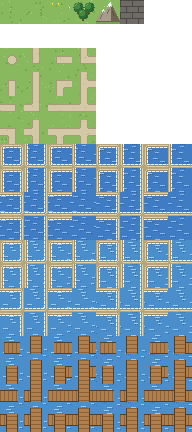
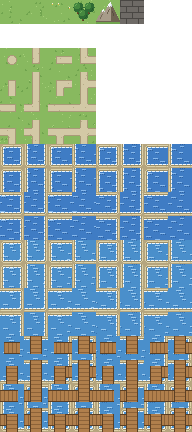
content: bridge keeps a bank on land-facing sides so the shoreline stays unbroken

diff --git a/tools/art/art_tiles.py b/tools/art/art_tiles.py
@@ -289,9 +289,10 @@ def water_piece(mask, frame, pal):
 
 
 def bridge_piece(arms, frame=0):
-    # Open water under the deck, no banks: a side with an arm may face land or the next bridge square
-    # (the piece cannot tell which), and a bank sliver between two deck squares would look broken.
-    p = water_piece(15, frame, RIVER)
+    # Water under the deck, with banks on the sides that have an arm (land beyond: the usual one-square
+    # bridge keeps an unbroken bank). Next to another bridge square the bank shows as a short sand strip
+    # beside the deck, like a pier; the piece cannot tell the two cases apart.
+    p = water_piece(~arms & 15, frame, RIVER)
     h0, h1 = 6, 17  # deck band (12 px wide)
     deck, plank, rail = 0xB07F4C, 0x8C6238, 0x5B3F24
     def band(horizontal, lo, hi):
